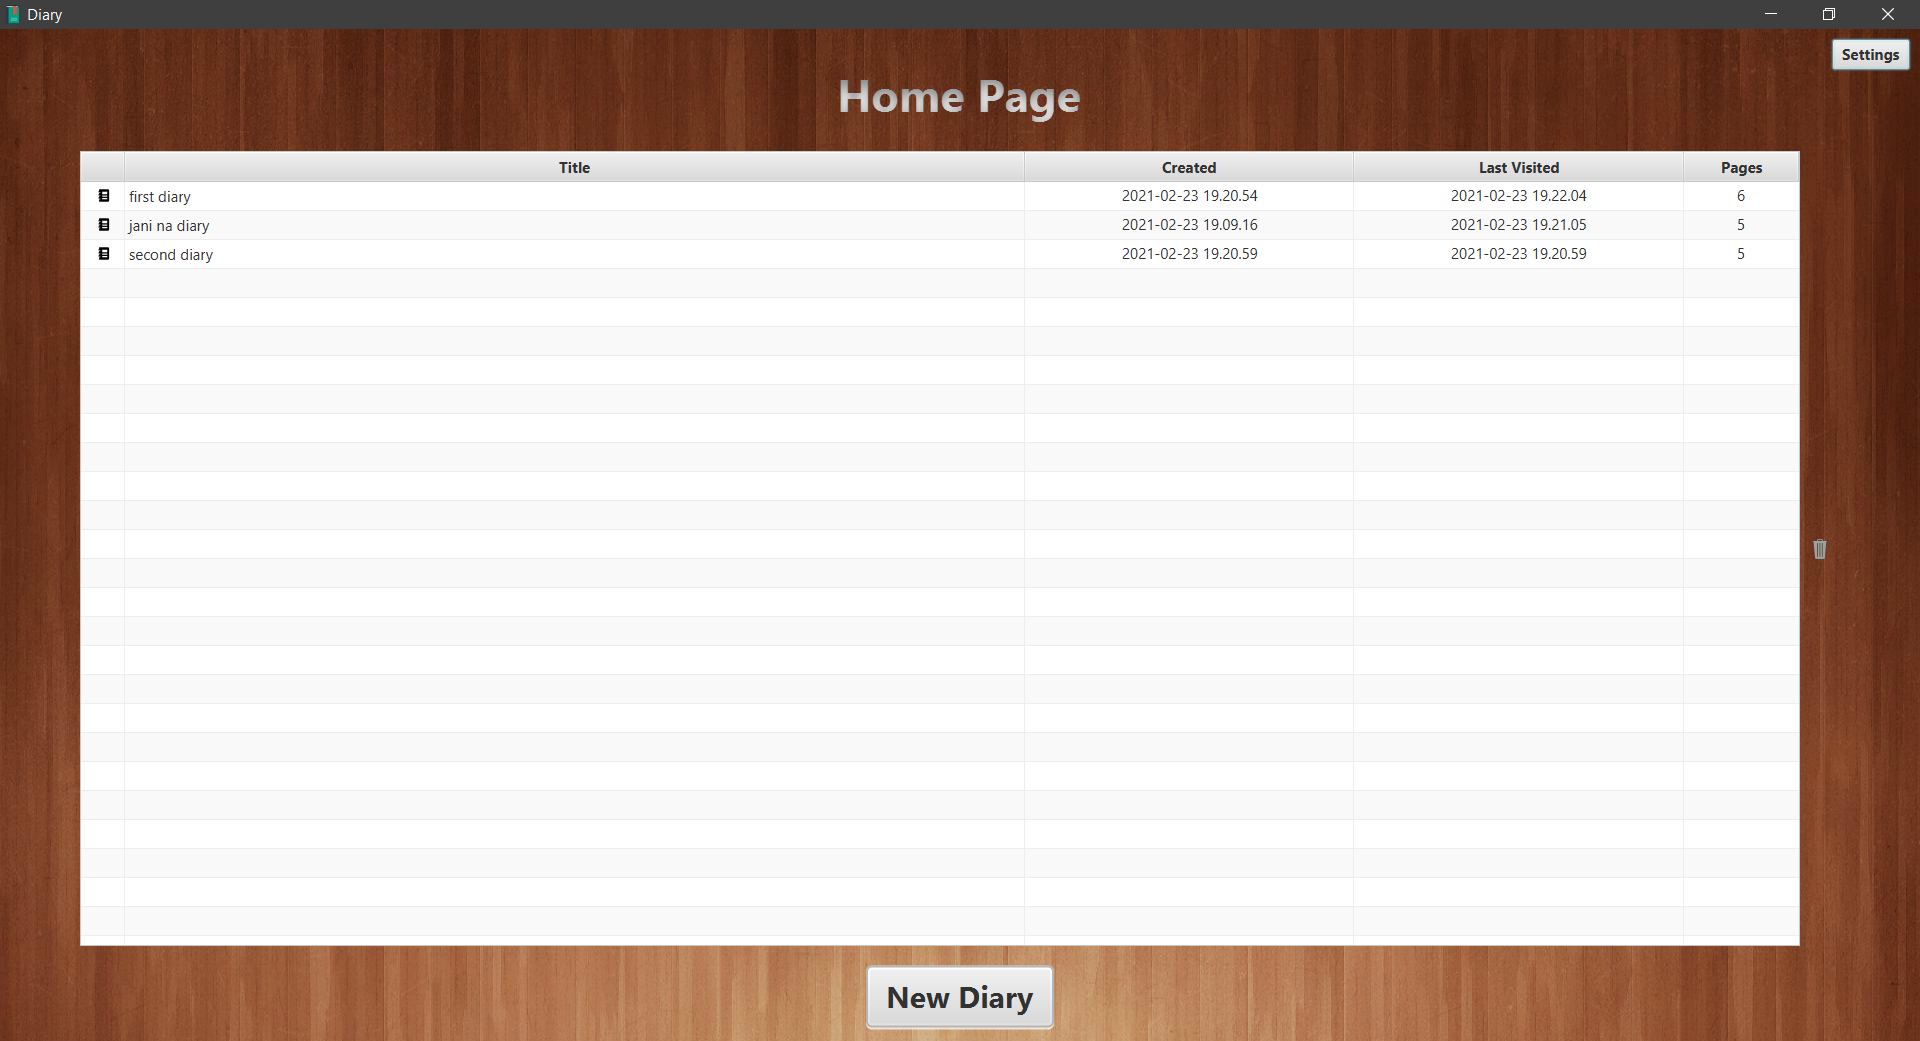
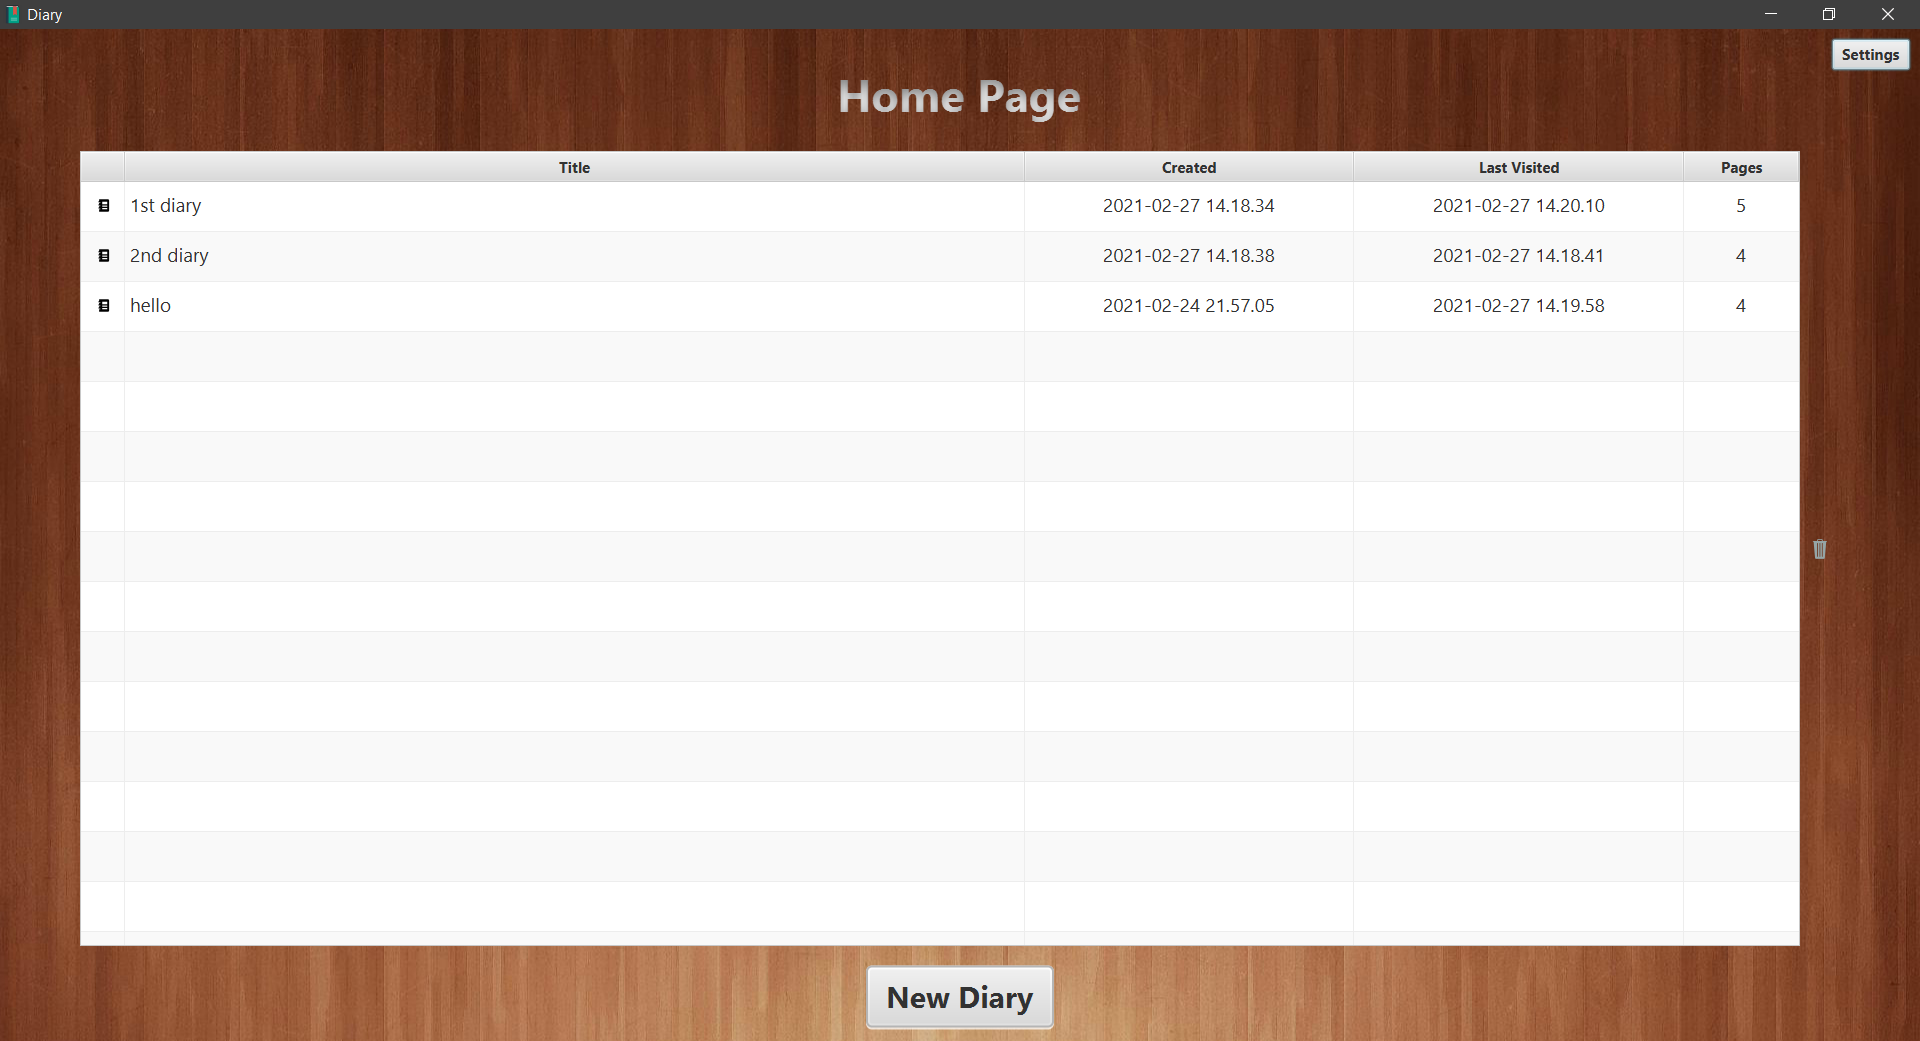
Readme screenshots updated

diff --git a/out/production/offline_diary_intellij/homePage/HomePage.css b/out/production/offline_diary_intellij/homePage/HomePage.css
@@ -28,8 +28,8 @@
 
 .table-row-cell {
   	-fx-selection-bar: #C5CAC7;
-    -fx-cell-size: 60px;
-    -fx-font-size: 20px;
+    -fx-cell-size: 50px;
+    -fx-font-size: 19px;
 }
 .text-area {
     -fx-background-color: rgba(200,200,200,0.8);

diff --git a/src/homePage/HomePage.css b/src/homePage/HomePage.css
@@ -28,8 +28,8 @@
 
 .table-row-cell {
   	-fx-selection-bar: #C5CAC7;
-    -fx-cell-size: 60px;
-    -fx-font-size: 20px;
+    -fx-cell-size: 50px;
+    -fx-font-size: 19px;
 }
 .text-area {
     -fx-background-color: rgba(200,200,200,0.8);
